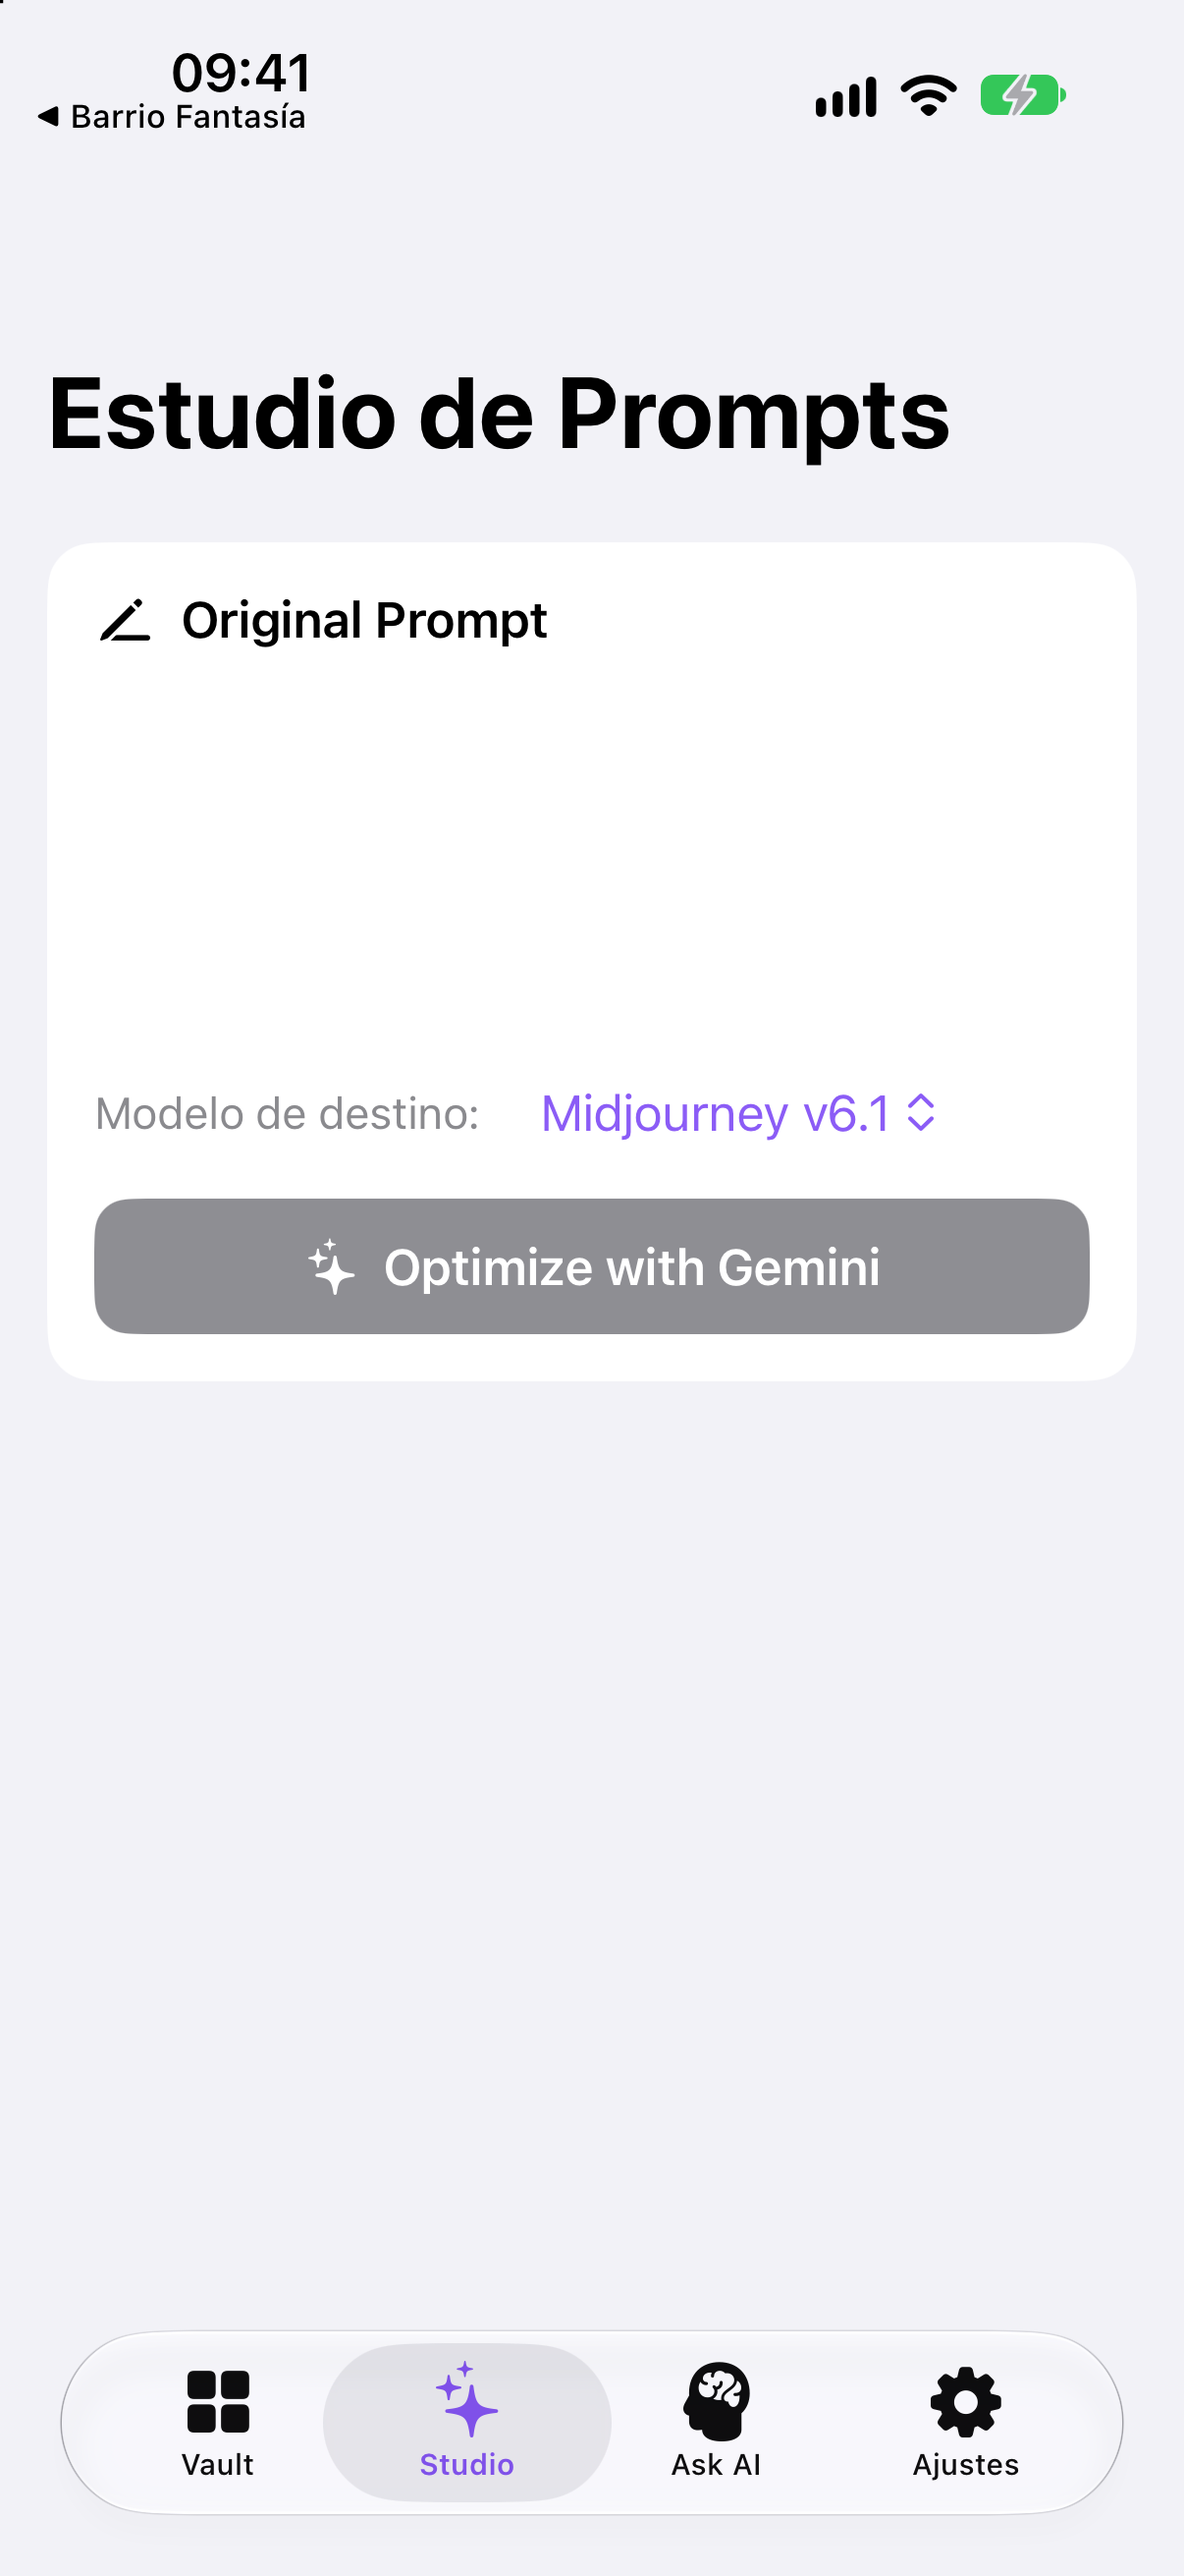
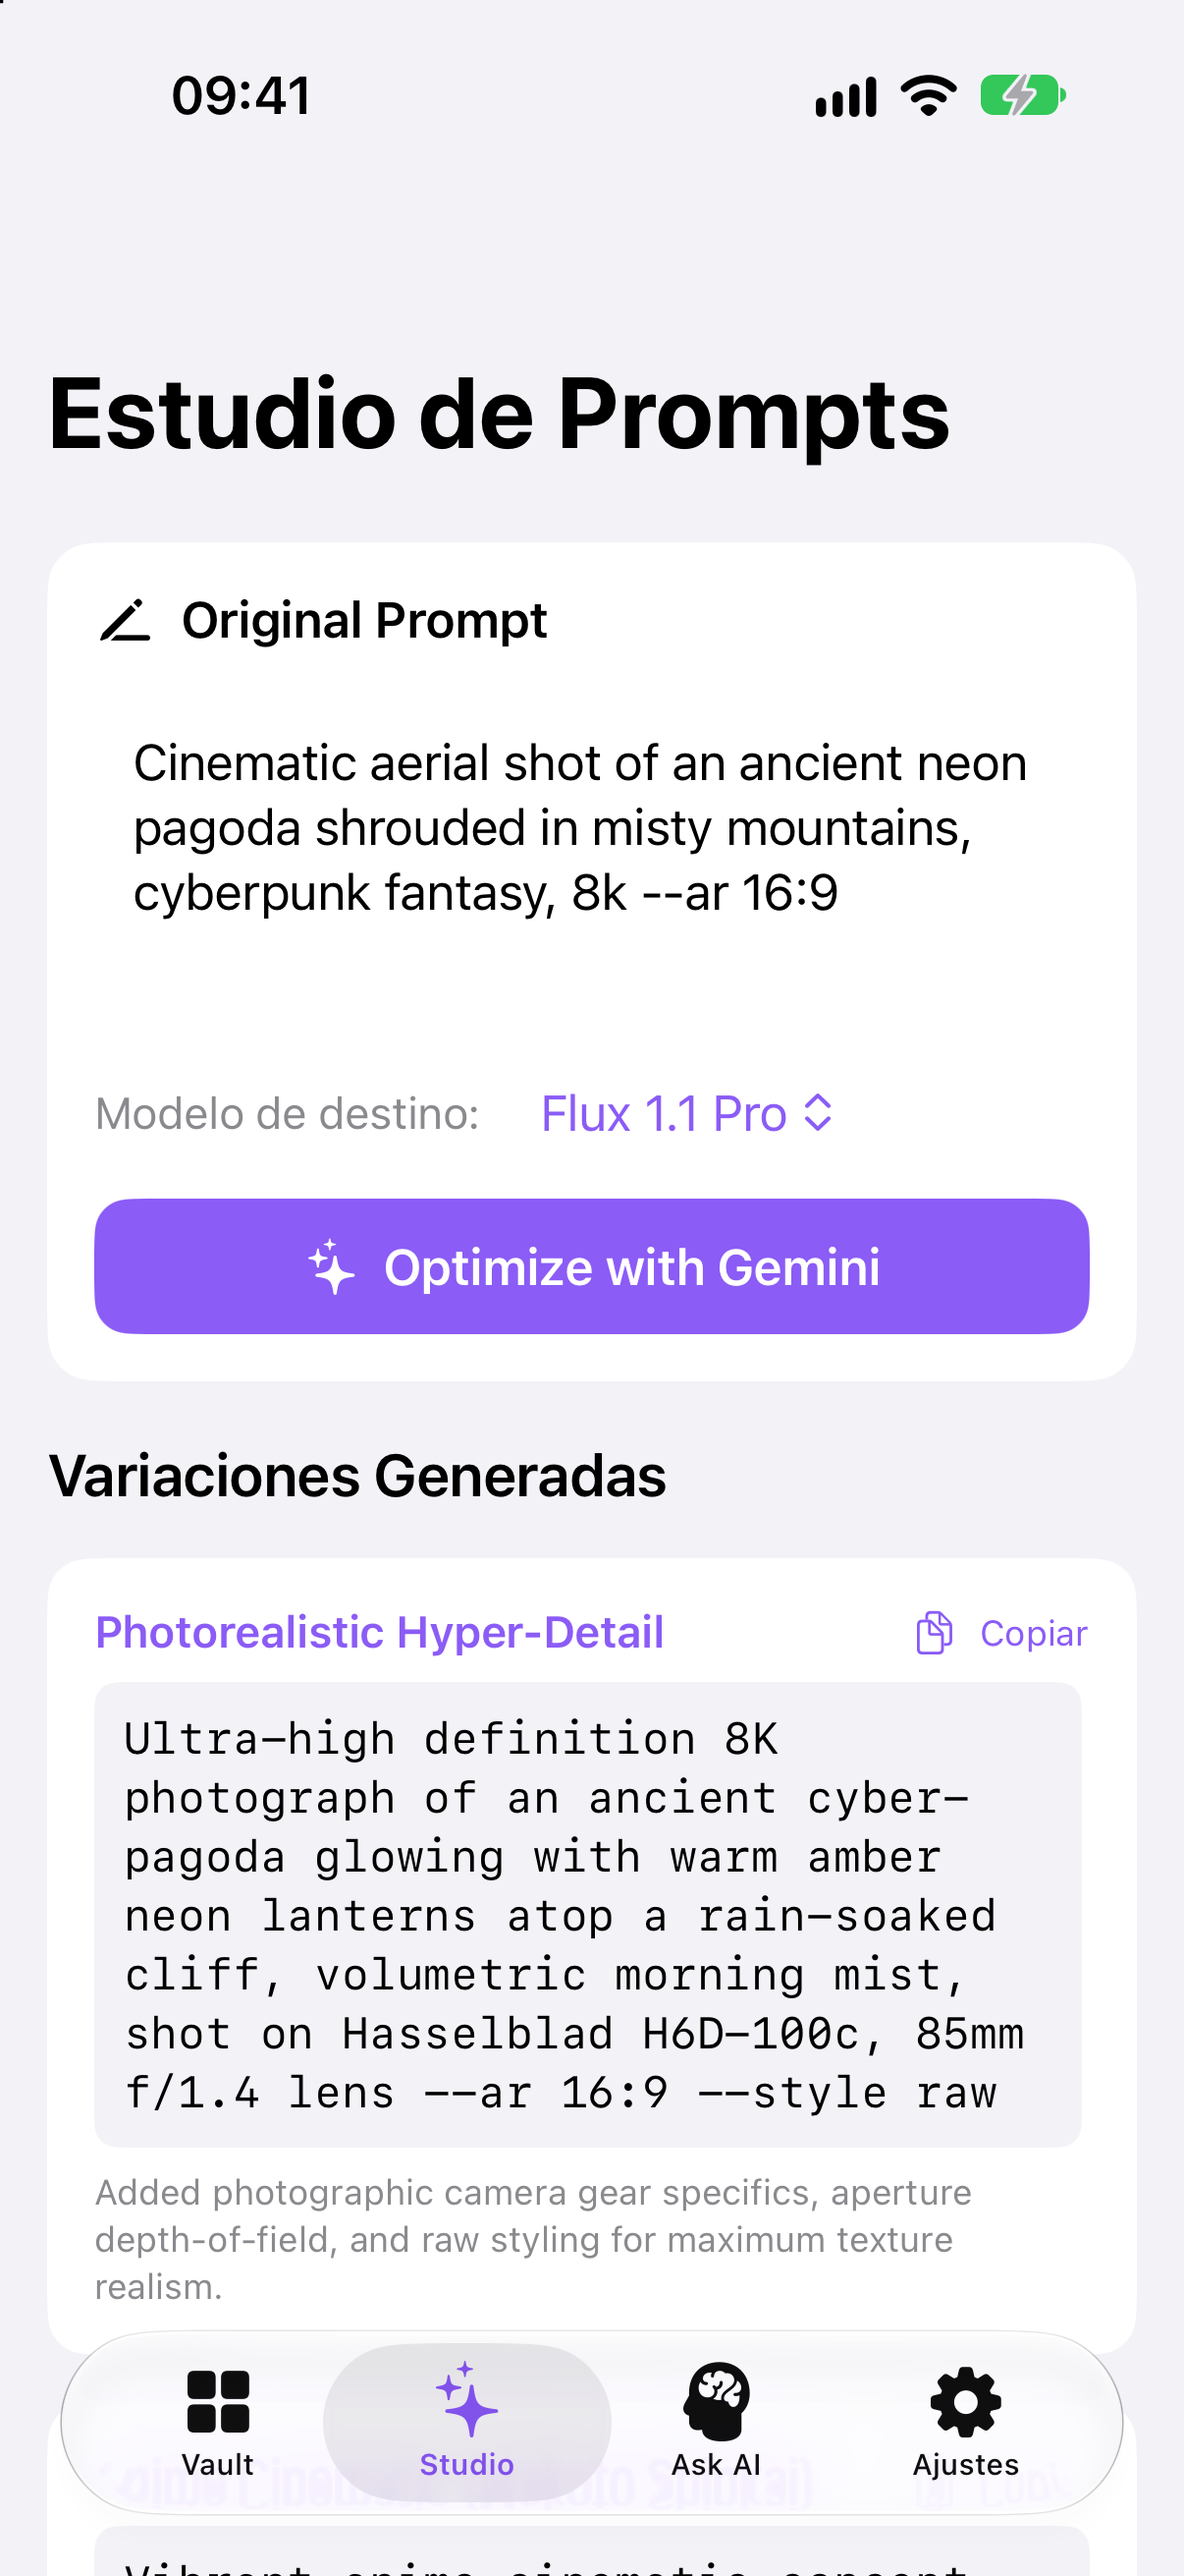
fix(assets): replace cold-start blank screenshot with fully populated vault UI

diff --git a/ReelMind/ViewModels/PromptVaultViewModel.swift b/ReelMind/ViewModels/PromptVaultViewModel.swift
@@ -6,16 +6,30 @@ import UIKit
 @MainActor
 public final class PromptVaultViewModel {
     // Prompt Studio
-    public var promptInput: String = ""
-    public var targetModel: String = "Midjourney v6.1"
+    public var promptInput: String = "Cinematic aerial shot of an ancient neon pagoda shrouded in misty mountains, cyberpunk fantasy, 8k --ar 16:9"
+    public var targetModel: String = "Flux 1.1 Pro"
     public var isOptimizing: Bool = false
-    public var variations: [PromptVariation] = []
+    public var variations: [PromptVariation] = [
+        PromptVariation(
+            label: "Photorealistic Hyper-Detail",
+            prompt: "Ultra-high definition 8K photograph of an ancient cyber-pagoda glowing with warm amber neon lanterns atop a rain-soaked cliff, volumetric morning mist, shot on Hasselblad H6D-100c, 85mm f/1.4 lens --ar 16:9 --style raw",
+            explanation: "Added photographic camera gear specifics, aperture depth-of-field, and raw styling for maximum texture realism."
+        ),
+        PromptVariation(
+            label: "Anime Cinematic (Makoto Shinkai)",
+            prompt: "Vibrant anime cinematic concept art of a towering neo-traditional pagoda amidst cherry blossom storms, glowing neon runes, radiant twilight sky with shimmering stars, CoMix Wave style --ar 16:9",
+            explanation: "Shifted aesthetic toward high-contrast emotional anime art with saturated sky tones and bloom lighting."
+        )
+    ]
 
     // Ask Vault
-    public var questionInput: String = ""
+    public var questionInput: String = "Which tool creates realistic cinematic avatars with lipsync?"
     public var isAsking: Bool = false
-    public var vaultAnswer: String? = nil
-    public var citations: [VaultCitation] = []
+    public var vaultAnswer: String? = "Based on your ReelMind vault, the recommended workflow combines **Hedra Character-2** for emotion-driven facial animation with **ElevenLabs Voice Cloning** for multi-language audio, and **Flux 1.1 Pro** for generating the base 4K reference portrait."
+    public var citations: [VaultCitation] = [
+        VaultCitation(reelId: "1", title: "Photorealistic Lip-Sync Avatar Workflow", platform: "Instagram", tools: ["Hedra", "ElevenLabs"]),
+        VaultCitation(reelId: "2", title: "Cyberpunk Cinematic Portrait", platform: "TikTok", tools: ["Flux 1.1 Pro"])
+    ]
 
     public var errorMessage: String? = nil
     public var copyAlert: Bool = false
